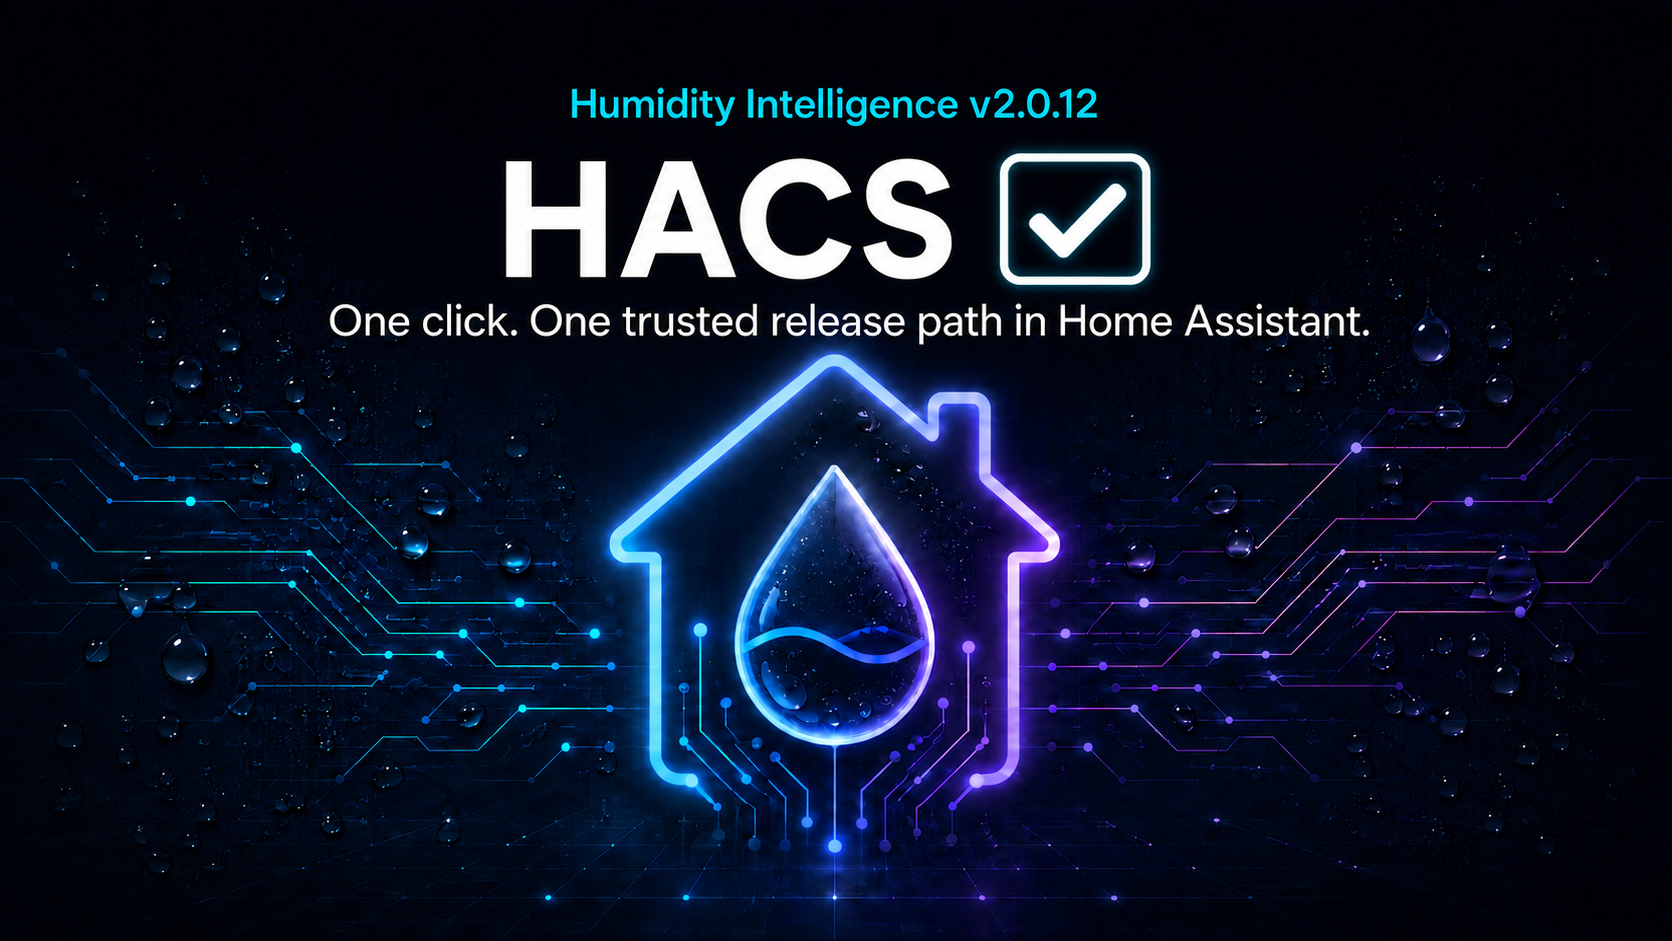
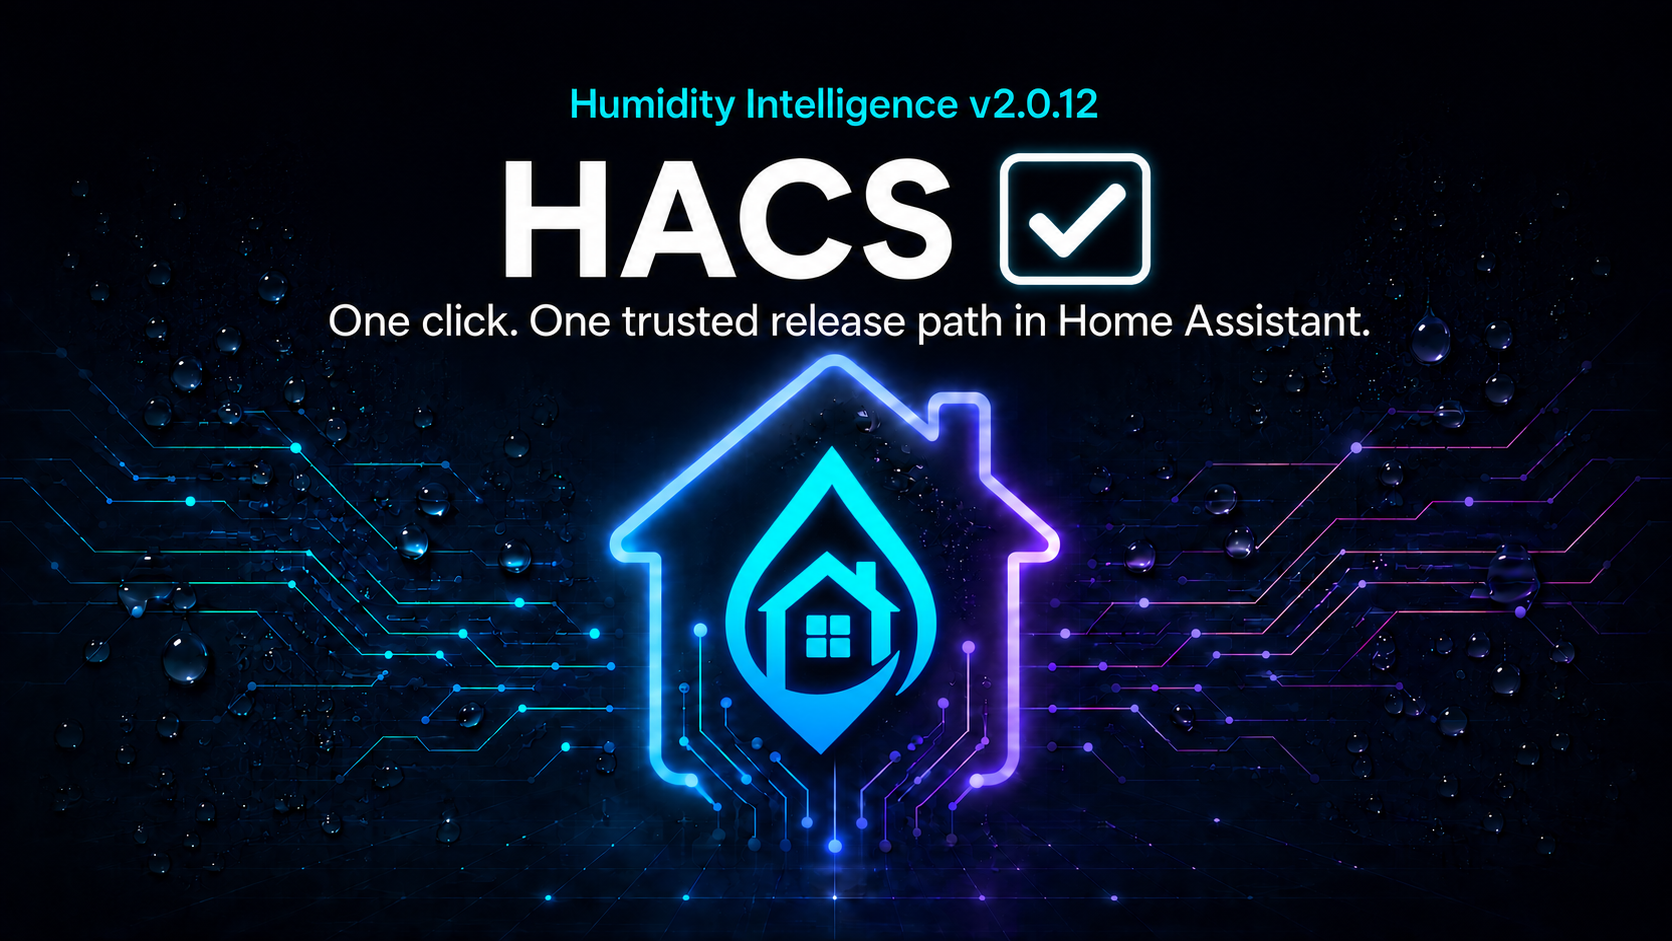
docs: record final registration and refresh release header
Record the exact final v2.0.12 package registering after one completed restart during the beta.4 update. Preserve candidate-only two-restart guidance and installation-scope limits.

Replace the central release-banner droplet with the official HI mark as requested, retaining wording and composition. No component, generated dashboard, entity, migration or further restart impact. Validation: 125 tests and 56 subtests; four exact-diff and visual reviews; Content Harmony protected-evidence adjudication. Final README/header approval and push remain separate.

diff --git a/docs/release-governance.md b/docs/release-governance.md
@@ -73,16 +73,23 @@ registration verification below remains separate. Broader runtime/UI changes req
 fresh scope-appropriate evidence and separate deployment authority.
 
 The RC-to-Stable preparation also changes only manifest identity, documentation,
-and matching tests. Its package digest is distinct; no exact-final-package live
-validation is implied by the metadata promotion.
+and matching tests. Its package digest is distinct; the final-package registration evidence below
+comes from a separate authorised installation, not from the metadata promotion.
 
-Before final v2.0.12 release guidance is approved, verify whether the exact final
-package needs two restarts. Record the installed digest, completed startup, loaded
-identity, registrations, and any discovery conflict or intervening package change.
-If two restarts are confirmed necessary, state that prominently in release notes and
-update instructions. Otherwise retain the candidate-validation label. Do not infer
-an extra restart requirement from an on-disk/loaded version mismatch alone or repeat
-restarts without diagnosing setup errors and retaining a recoverable predecessor.
+The exact final v2.0.12 component package
[1 lines of base64/hex data omitted]
+was installed over verified beta.4 and registered after one completed Home Assistant
+restart. Both loader fields reported 2.0.12; the entry loaded, 95 mapped entities
+were available, 13 services registered, diagnostics reported ok, and all 16 release
+checks passed. The installed 53-file inventory remained exact after startup.
+A second restart was not needed. This establishes the observed beta.4-to-Stable
+update result, not a guarantee for every starting version or installation method.
+
+Keep the two-restart beta procedure labelled as candidate validation. For Stable,
+restart after installation, then verify loaded identity and registration. If setup
+is incomplete, inspect errors and duplicate-domain discovery before deciding on
+another restart. Keep recoverable predecessors outside `custom_components`; do not
+infer an extra restart requirement from the on-disk version or restart in a loop.
 
 ## v2.0.11 Publication And v2.0.12 Maintenance Path
 

diff --git a/CHANGELOG.md b/CHANGELOG.md
@@ -10,18 +10,22 @@ This project follows a practical changelog format for Home Assistant and HACS us
 
 ![Humidity Intelligence v2.0.12 release header celebrating repository-level HACS inclusion](assets/release_banner/v2.0.12_release.png)
 
+- Replaced the release header's central glass droplet with the official HI logo,
+  retaining the wording and overall composition. Integration branding and generated
+  dashboard assets are unchanged.
 - Prepared `2.0.12` Stable metadata on the develop-based release lane after RC
   promotion. The RC-to-Stable component delta is the manifest version only;
   documentation and matching tests distinguish preparation from publication.
-  Exact final-package registration and restart behavior remain to be verified.
+  The exact final package subsequently registered after one completed restart in
+  the validated beta.4-to-Stable update, with diagnostics and release checks passing.
 - Advanced the development identity to `2.0.12-rc.1` for the forward promotion from
   `senyo888-patch-1` to `develop`, then `main`. The beta.4-to-RC delta changes only
   manifest identity, release documentation, and associated tests. Beta.4 live
   validation remains bound to its tested package; the RC is a new package digest.
 - Recorded the two completed restarts used for beta.4 candidate validation, with
   separate loaded-identity and registration checks. This is not an established
-  installation rule for final v2.0.12. Verify the final package before stating such
-  a rule in Stable release notes or update instructions. Keep rollback copies
+  installation rule for final v2.0.12: its exact package registered after one
+  completed restart in the validated beta.4-to-Stable update. Keep rollback copies
   outside `custom_components` so duplicate domains cannot interfere with discovery.
 - Humanised the Manual reason field into one coherent explanation of the active mode,
   the ordinary outputs HI will leave unchanged, who remains in control, how to return

diff --git a/README.md b/README.md
@@ -545,9 +545,14 @@ v2.0.12 candidate update note:
 After installing a new HI version through HACS or replacing its files:
 
 1. Restart Home Assistant. A full restart loads the updated HI package and services.
-2. Confirm native diagnostics report the expected HI version and schema `1`.
+2. Confirm the [loader identity fields](docs/release-governance.md#candidate-registration-evidence)
+   report the expected HI version, the entry is loaded, and entities/services are available.
 3. Run `humidity_intelligence.v205_release_check` and review the generated report.
 4. Check an ordinary configured time-gate window and a timer start/cancel cycle.
+
+The exact final v2.0.12 package registered after one completed restart in the
+validated beta.4-to-Stable update. A second restart was not needed. The two-restart
+beta procedure remains candidate-validation guidance, not a permanent Stable rule.
 
 No Manual-card re-export is required for v2.0.12 because generated-card bytes are
 unchanged. If your installed version differs from the expected HACS version, resolve
@@ -1274,7 +1279,8 @@ CO emergency pressure. Details are in
   final Stable package
 - **Candidate validation:** beta.4 used two complete Home Assistant restarts, with
   startup and registration checked after each. This is a candidate-validation
-  procedure; a two-restart requirement for final v2.0.12 is unverified. See
+  procedure. The exact final v2.0.12 package registered after one completed restart
+  in the validated beta.4-to-Stable update; a second restart was not needed. See
   [registration evidence](docs/release-governance.md#candidate-registration-evidence).
 - remains blocked from tag and publication until exact-package validation, required
   reviews, release sanity, Content Harmony closeout, and final maintainer README and
